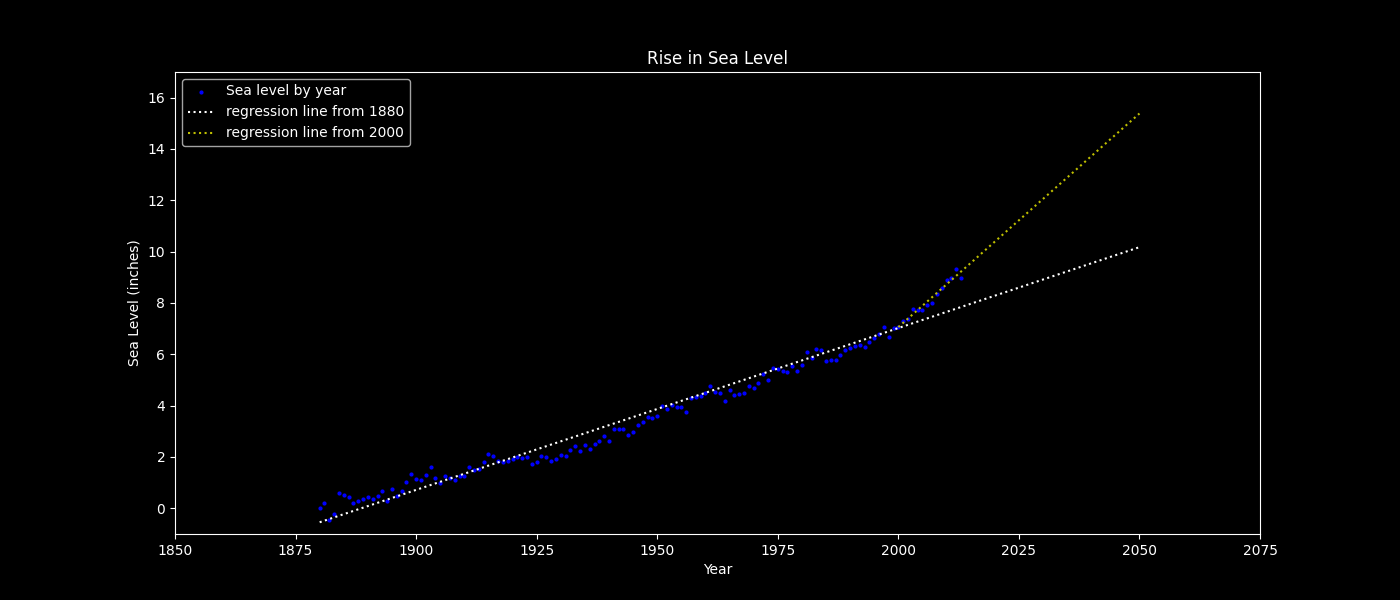
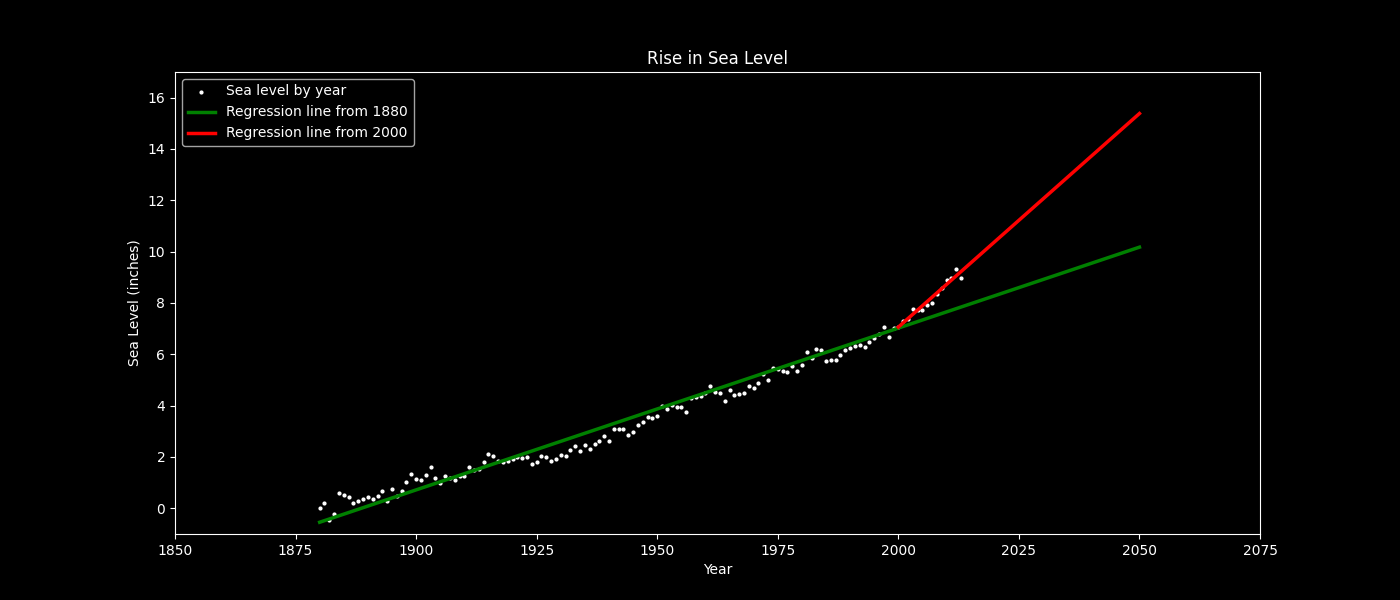
Adjusted colors on Project 5

diff --git a/Project 5/sea_level_predictor.py b/Project 5/sea_level_predictor.py
@@ -12,25 +12,25 @@ def draw_plot():
     # *** In addition, I'm setting x and y limits on the plot axes to pass all automated tests
     ax.set_xlim(left=1850, right=2075)
     ax.set_ylim(bottom=-1, top=17)
-    ax.scatter(df['Year'], df['CSIRO Adjusted Sea Level'], 4, c='b')
+    ax.scatter(df['Year'], df['CSIRO Adjusted Sea Level'], 4, c='w')
 
     # Create first line of best fit
     linreg_1 = linregress(df['Year'], df['CSIRO Adjusted Sea Level'])
-    # *** Using ax.add_line to meet the project requirements that the regression line data
+    # *** we're using ax.add_line() to meet the project requirements that the regression line data
     # *** conform to a specific size with exact values.
     # *** In practice, I think ax.axes.axline looks better, and is also quicker to code
-    # *** because it can take a point tuple and a slope as a parameter, eliminating the need for the lower-level
-    # *** math you see in the lines below.
+    # *** because it can take a point tuple and a slope as a parameter, eliminating the need
+    # *** for the lower-level math you see in the lines below.
     l1_xdata = np.linspace(1880, 2050, 171)
     l1_ydata = np.linspace(1880 * linreg_1.slope + linreg_1.intercept, linreg_1.slope * 2050 + linreg_1.intercept, 171)
-    ax.add_line(plt.Line2D(l1_xdata, l1_ydata, color='w', linestyle=':'))
+    ax.add_line(plt.Line2D(l1_xdata, l1_ydata, linewidth=2.5, color='g', linestyle='-'))
 
     # Create second line of best fit
     df_recent = df[df['Year'] >= 2000]
     linreg_2 = linregress(df_recent['Year'], df_recent['CSIRO Adjusted Sea Level'])
     l2_xdata = np.linspace(2000, 2050, 51)
     l2_ydata = np.linspace(2000 *linreg_2.slope + linreg_2.intercept, linreg_2.slope * 2050 + linreg_2.intercept, 51)
-    ax.add_line(plt.Line2D(l2_xdata, l2_ydata, color="y", linestyle=":"))
+    ax.add_line(plt.Line2D(l2_xdata, l2_ydata, linewidth=2.5, color="r", linestyle="-"))
 
     # Add labels and title
     ax.set_title('Rise in Sea Level')
@@ -42,4 +42,4 @@ def draw_plot():
 
     # Save plot and return data for testing (DO NOT MODIFY)
     plt.savefig('sea_level_plot.png')
-    return plt.gca(), ax
+    return plt.gca()
